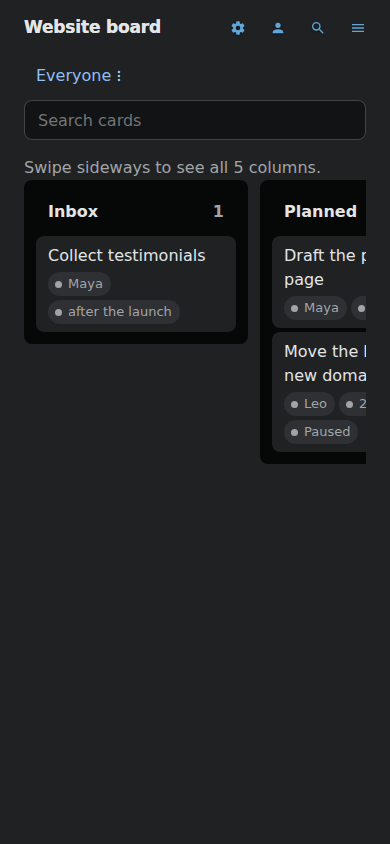
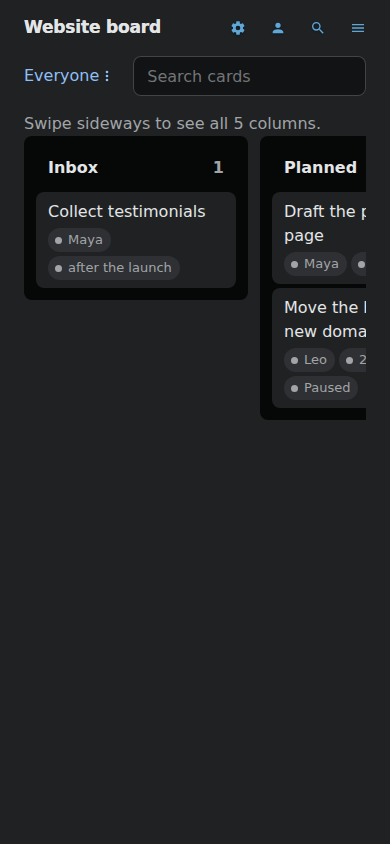
Owner filter text starts at the gutter on a phone

Changed region(s): [[0.0615, 0.0616, 0.9538, 0.5545]]

diff --git a/ui/board/board.view.css b/ui/board/board.view.css
@@ -176,7 +176,8 @@
 		flex: 1 1 auto;
 	}
 
-	[trip2gtasks_board_owner_trigger][mol_button_minor] {
+	[trip2gtasks_board_owner_trigger][mol_button_minor],
+	[trip2gtasks_board_owner_option_label][mol_dimmer] {
 		padding-left: 0;
 	}
 
